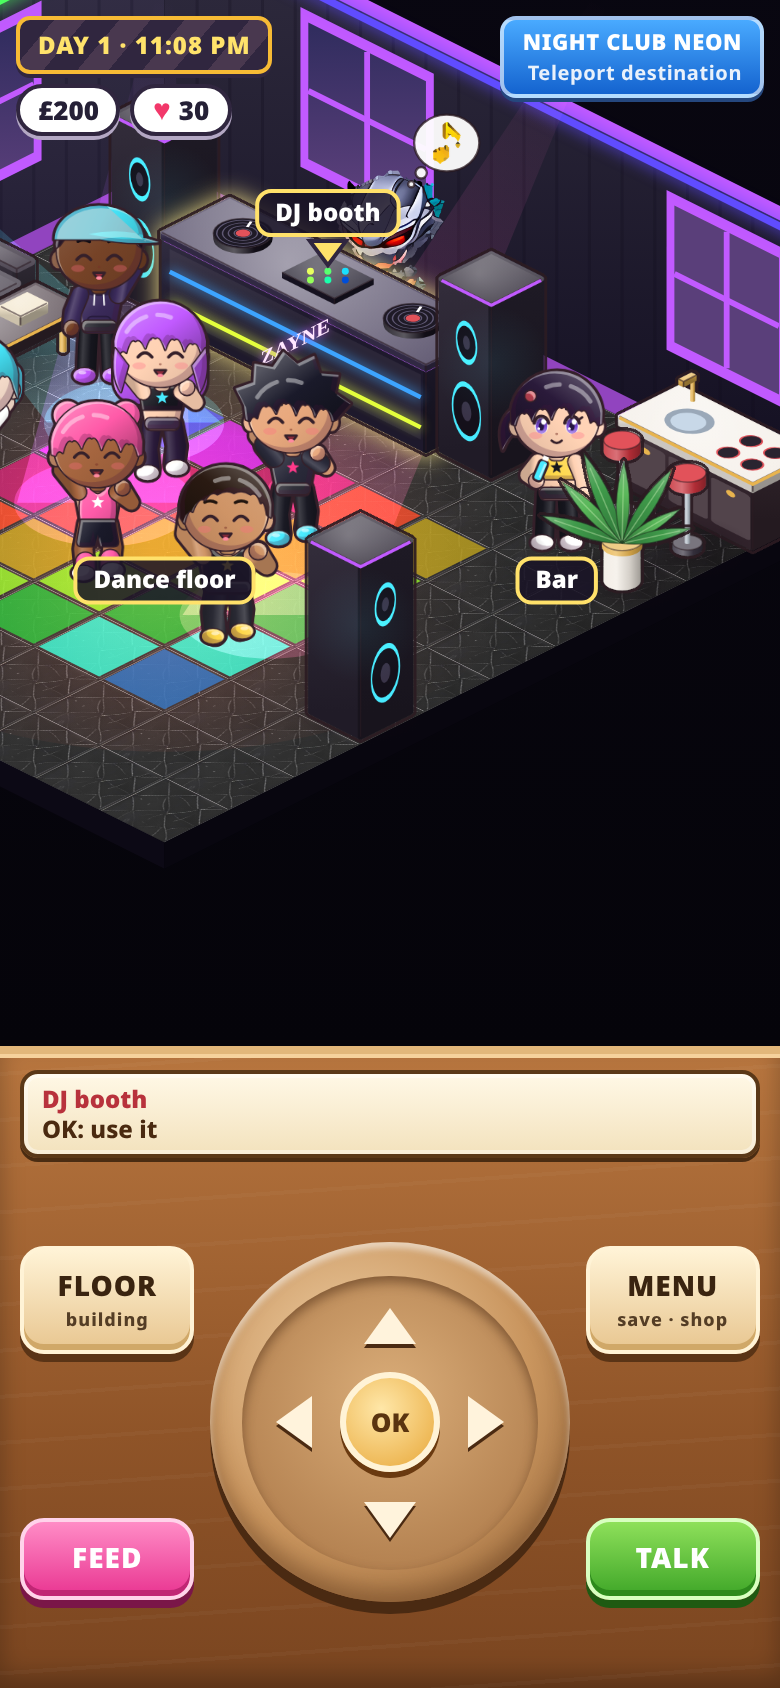
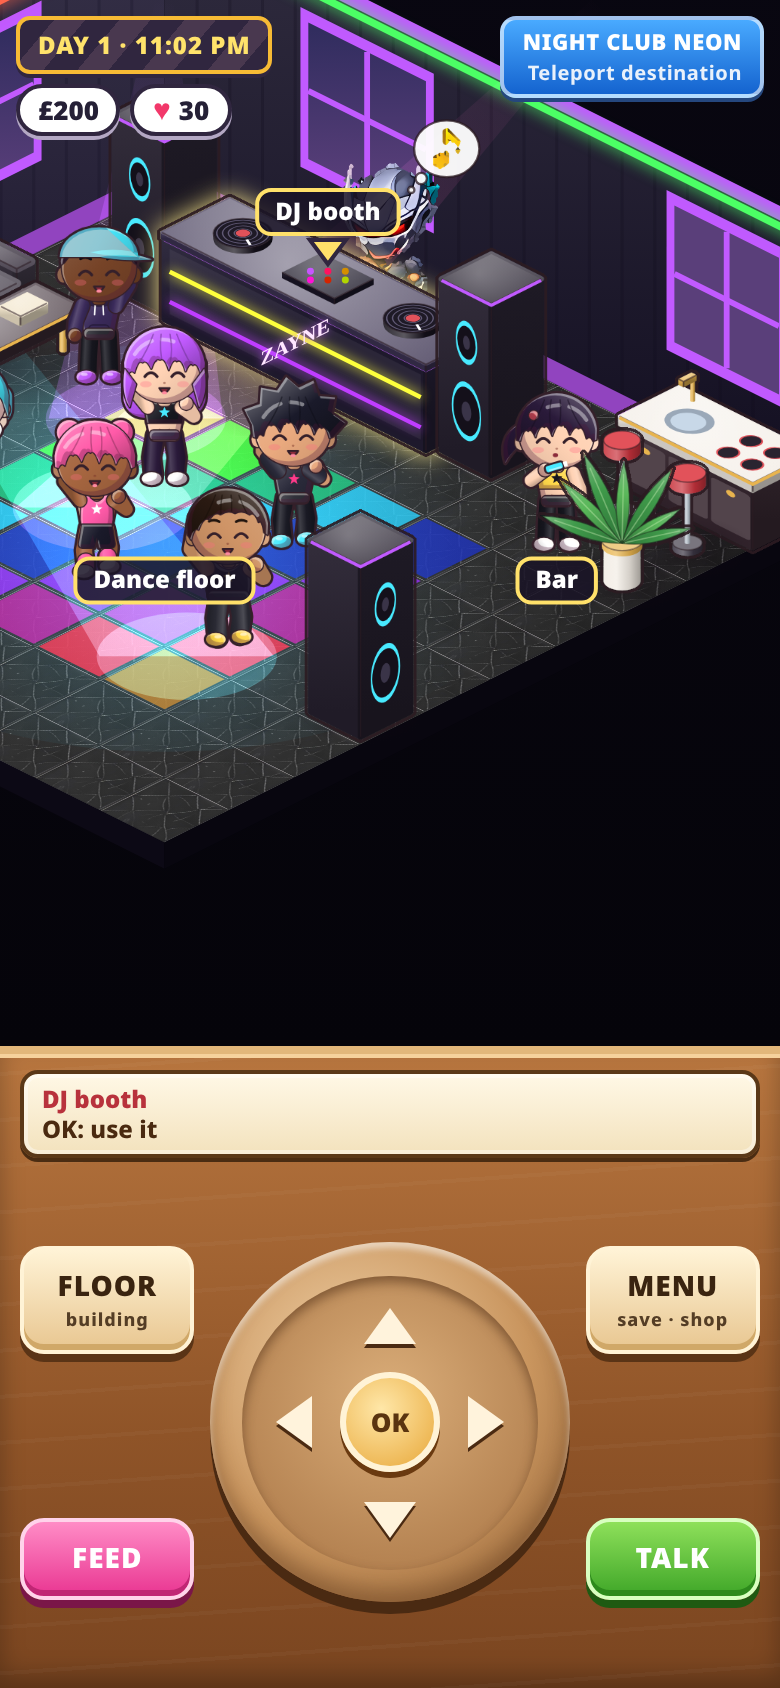
v0.3.0: bed blanket layer, NPC strands/shading, fshop connectivity, screenshots, README

diff --git a/npc.js b/npc.js
@@ -17,7 +17,7 @@ function grad(c,col,x0,y0,x1,y1,k=.2){const g=c.createLinearGradient(x0,y0,x1,y1
 function paint(c,fn,col,o={}){const [x0,y0,x1,y1]=o.box||[-30,-120,30,0];
  c.beginPath();fn(c);if(o.line!==0){c.lineWidth=OW*(o.lw||1)*1.5;c.strokeStyle=OL;c.lineJoin='round';c.stroke();}
  c.fillStyle=o.flat?col:grad(c,col,x0,y0,x1,y1,o.k||.18);c.fill();
- if(o.cel!==0){const [sx,sy]=o.cel||[-3.2,-2.6];c.save();c.beginPath();fn(c);c.clip();c.beginPath();c.rect(-300,-400,600,600);c.save();c.translate(sx,sy);fn(c);c.restore();c.fillStyle=o.sc||'rgba(70,20,60,.24)';c.fill('evenodd');
+ if(o.cel!==0){const [sx,sy]=o.cel||[-3.2,-2.6];c.save();c.beginPath();fn(c);c.clip();c.beginPath();c.rect(-300,-400,600,600);c.save();c.translate(sx,sy);fn(c);c.restore();c.fillStyle=o.sc||'rgba(80,24,56,.3)';c.fill('evenodd');
   c.beginPath();c.rect(-300,-400,600,600);c.save();c.translate(1.4,1.6);fn(c);c.restore();c.fillStyle=o.rim||'rgba(255,250,240,.38)';c.fill('evenodd');c.restore();}}
 function limb(c,pts,w,col,pass,o={}){c.lineCap='round';c.lineJoin='round';c.beginPath();c.moveTo(...pts[0]);for(let i=1;i<pts.length;i++)c.lineTo(...pts[i]);
  if(pass==0){c.lineWidth=w+OW*3;c.strokeStyle=OL;c.stroke();return;}
@@ -147,7 +147,7 @@ function paintNpc(c,s,act,p,walk,back){const J=joints(s,walk?'walk':act,p,walk),
  if(back)H.back.forEach(h=>P(h.fn,s.hc,{box:[hx-20,hy-34,hx+20,hy+20],k:.24}));
  if(!back)D(c=>face(c,s,hx,hy,J.mood,((p*9+(s.seed||0))%5)<.22&&J.mood!='grit',J.turn));
  H.front.forEach(h=>P(h.fn,h.o.tie?(s.band||'#e2525a'):h.o.dim?tn(s.hc,-.1):s.hc,{box:[hx-16,hy-34,hx+16,hy+10],k:h.o.k||.26,rim:'rgba(255,255,255,.4)'}));
- if(!back&&H.front.length)D(c=>{c.save();c.beginPath();H.front.forEach(h=>h.fn(c));c.clip();c.strokeStyle='rgba(255,255,255,.42)';c.lineWidth=3;c.lineCap='round';c.beginPath();c.arc(hx-2,hy+2,R-4,Math.PI*1.18,Math.PI*1.4);c.stroke();c.beginPath();c.arc(hx-2,hy+2,R-4,Math.PI*1.5,Math.PI*1.62);c.stroke();c.restore();});
+ if(!back&&H.front.length)D(c=>{c.save();c.beginPath();H.front.forEach(h=>h.fn(c));c.clip();c.strokeStyle='rgba(255,255,255,.42)';c.lineWidth=3;c.lineCap='round';c.beginPath();c.arc(hx-2,hy+2,R-4,Math.PI*1.18,Math.PI*1.4);c.stroke();c.beginPath();c.arc(hx-2,hy+2,R-4,Math.PI*1.5,Math.PI*1.62);c.stroke();c.strokeStyle=tn(s.hc,-.45);c.globalAlpha=.55;c.lineWidth=1;[[-.5,-.2],[-.15,.1],[.25,-.1],[.55,.15]].forEach(([a,b])=>{c.beginPath();c.moveTo(hx+a*R*.6,hy-R+2);c.quadraticCurveTo(hx+a*R*.9,hy-R*.5,hx+(a+b)*R,hy-4);c.stroke();});c.restore();});
  if(s.band)P(c=>{c.moveTo(hx-R-1,hy-8);c.quadraticCurveTo(hx,hy-17,hx+R+1,hy-8);c.lineTo(hx+R+1,hy-3);c.quadraticCurveTo(hx,hy-12,hx-R-1,hy-3);c.closePath();},s.band,{box:[hx-R,hy-15,hx+R,hy-3],cel:0});
  if(s.cap)P(c=>{c.ellipse(hx,hy-8,R+1.5,R-6,0,Math.PI,Math.PI*2);c.closePath();if(!back){c.moveTo(hx-4,hy-9);c.quadraticCurveTo(hx+20,hy-14,hx+R+12,hy-6);c.quadraticCurveTo(hx+18,hy-4,hx-4,hy-9);}},s.cap,{box:[hx-R,hy-30,hx+R,hy-4]});
  if(s.earbuds&&!back)D(c=>{[-1,1].forEach(d=>{c.fillStyle='#fff';c.beginPath();c.arc(hx+d*(R-1),hy+7,2.4,0,7);c.fill();c.strokeStyle=OL;c.lineWidth=1;c.stroke();});});

diff --git a/world.js b/world.js
@@ -10,7 +10,7 @@
 // Footprints come from the painted piece models in furnart.js. use.at = where the tenant sits/lies on the piece in the
 // piece's local model space [x across, y depth (front = y max), z height px]; the painter's own projection maps it for each of 4 facings.
 // r (0..3): 0 front faces +v (down-left), 1 faces +u (down-right), 2 faces -v (to the back wall), 3 faces -u.
-const USE={bed:{act:'sleep',pose:'sleep',at:[1,1.0,33],ly:.6},bed_grey:{act:'sleep',pose:'sleep',at:[1,1.0,33],ly:.6},
+const USE={bed:{act:'sleep',pose:'sleep',at:[1,1.0,33],ly:.9},bed_grey:{act:'sleep',pose:'sleep',at:[1,1.0,33],ly:.9},
  sofa_red:{act:'sit',pose:'sit',at:[1,.62,29]},sofa_cream:{act:'sit',pose:'sit',at:[1,.62,29]},sofa_grey:{act:'sit',pose:'sit',at:[1,.62,29]},sofa_black:{act:'sit',pose:'sit',at:[1,.62,29]},
  armchair:{act:'sit',pose:'sit',at:[.5,.62,29]},chair_red:{act:'sit',pose:'sit',at:[.5,.52,33]},bench_blue:{act:'lift',pose:'sit',at:[1,.5,30]},
  tv:{act:'tv',pose:'tv'},fridge:{act:'fridge',pose:'fridge'},fridge2:{act:'fridge',pose:'fridge'},counter:{act:'cook',pose:'eat'},table_dining:{act:'eat',pose:'eat'},table_coffee:{act:'eat',pose:'eat'},
@@ -78,7 +78,7 @@ function usePoint(G,f){const d=FDEF[f.k],U=d&&d.use;if(!U)return null;const [w,h
  const z=G.zone[f.u]&&G.zone[f.u][f.v],behind=([u,v])=>r==0?v<f.v:r==1?u<f.u:r==2?v>=f.v+h:u>=f.u+w;
  const cand=[...front,...side.filter(p=>!front.some(q=>q[0]==p[0]&&q[1]==p[1])&&!behind(p))].filter(([u,v])=>G.free(u,v)&&G.zone[u][v]==z);
  let draw=[b.cx,b.by],depth=b.depth+.05,gp=null;
- if(U.at){const [gu,gv]=locToGrid(f.k,r,U.at[0],U.at[1]),q=G.pt(f.u+gu,f.v+gv),KZ=G.eu[0]/45;draw=[q[0],q[1]-U.at[2]*KZ];gp=U.ly!=null?locToGrid(f.k,r,U.at[0],U.ly):[gu,gv];
+ if(U.at){const [gu,gv]=locToGrid(f.k,r,U.at[0],U.at[1]),q=G.pt(f.u+gu,f.v+gv),KZ=G.eu[0]/45;draw=[q[0],q[1]-U.at[2]*KZ];gp=U.ly!=null?[...locToGrid(f.k,r,U.at[0],U.ly),r==1?0:1]:[gu,gv];
   // facing the camera (r 0/1): the tenant is drawn over the piece, then the piece's front layer (arms, blanket) over the tenant
   depth=r<2?b.depth+.05:b.depth-.05;}
  // lying axis on screen (head direction), for beds

diff --git a/data.js b/data.js
@@ -228,7 +228,7 @@ park:{n:'City Park',outdoor:1,sign:'CITY PARK',entry:EXIT,
  props:[F('palm',0,0),F('statue_white',2,1),F('plant_big',9,0),F('bench_blue',3,6),F('bench_blue',6,7),F('roses',0,5,1),F('roses',9,5),F('lamp_warm',6,4),F('plant',0,7,1),F('palm',9,8)],
  hot:[{id:'exit',n:'Exit',kind:'exit'},{id:'stroll',n:'Pond path',t:[5,3],kind:'stroll'}]},
 fshop:{n:'Furniture Shop',wall:['#f2efe8','#e4dfd4'],trim:'#c9a35a',tex:'t20',sign:'LUMEN FURNITURE',entry:EXIT,
- props:[F('armor',0,1,1),F('sofa_red',0,3,1),F('fridge2',2,0),F('bed',4,0),F('bookcase_red',7,0),F('tv',0,5,1),F('treadmill',6,5),F('sofa_cream',3,6),F('plant_big',9,1),F('desk',8,2)],
+ props:[F('armor',0,1,1),F('sofa_red',0,3,1),F('fridge2',2,0),F('bed',4,0),F('bookcase_red',7,0),F('tv',0,5,1),F('treadmill',6,5),F('sofa_cream',3,6),F('plant_big',9,0),F('desk',8,2)],
  hot:[{id:'exit',n:'Exit',kind:'exit'},{id:'shop',n:'Shop counter',t:[4,4],kind:'shop'}]},
 club:{n:'Night Club Neon',wall:['#1c1630','#151026'],trim:'#c15aff',tex:'t32',sign:'CLUB NEON',neon:1,entry:EXIT,dance:[3,3,5,5],
  props:[F('djbooth',2,1),F('speaker',1,1),F('speaker',6,1),F('counter',8,0),F('barstool',8,1),F('barstool',9,1),F('sofa_black',0,3,1),F('table_coffee',1,3,1),F('armchair',0,6,1),F('plant_palm',9,2),F('speaker',9,6,1)],

diff --git a/furnart.js b/furnart.js
@@ -152,7 +152,7 @@ const cache=new Map();
 function render(k,r,eu,layer){const def=DEF[k];if(!def)return null;const key=k+'|'+r+'|'+eu[0]+'|'+(layer?layer.map(v=>v.toFixed(2)).join(','):'');if(cache.has(key))return cache.get(key);
  const ctx=mk(def,r,eu);def.paint(ctx);
  // front layer: only the parts in front of a tenant sitting/lying at grid point layer=[u,v] (arms, blanket)
- if(layer){const [lu,lv]=layer;const keep=ctx.items.filter(it=>it.bb&&(it.bb[0]>=lu-.001||it.bb[1]>=lv+.2));ctx.items.length=0;ctx.items.push(...keep);}
+ if(layer){const [lu,lv,ax]=layer;const keep=ctx.items.filter(it=>it.bb&&(ax!=null?it.bb[ax]>=(ax?lv:lu)-.001:(it.bb[0]>=lu-.001||it.bb[1]>=lv+.2)));ctx.items.length=0;ctx.items.push(...keep);}
  // bounds from the footprint and height
  const [W,D]=def.fp,gw=r%2?D:W,gh=r%2?W:D,pts=[[0,0],[gw,0],[gw,gh],[0,gh]].map(([a,b])=>[a*eu[0]-b*eu[0],a*eu[1]+b*eu[1]]);
  const pad=34,x0=Math.min(...pts.map(p=>p[0]))-pad,x1=Math.max(...pts.map(p=>p[0]))+pad,y0=Math.min(...pts.map(p=>p[1]))-(def.h+20)*ctx.KZ-pad,y1=Math.max(...pts.map(p=>p[1]))+pad;

diff --git a/README.md b/README.md
@@ -17,3 +17,15 @@ You start in the lobby. **FLOOR** opens the building-front floor picker, and the
 - Ophion's and Batzz's source CG panels crop their wings and tail at the edges.
 - Room pathing uses hand-placed waypoints, so it is approximate.
 - There is no player avatar, to avoid inventing a character; a cursor is used instead. The ring is a canvas drawing.
+
+## v0.3.0 — one art style
+- **Furniture** (`furnart.js`): every piece is painted procedurally in the chibi-sprite style (soft cel shading, rounded
+  cushiony corners, a dark sticker outline) from a small 3D-ish model, so all **4 facings** are drawn properly (ROTATE
+  cycles them). Pieces have front layers (sofa arms, blanket) drawn over a seated/sleeping tenant.
+- **NPCs** (`npc.js`): gym-goers and clubbers are painted chibis at tenant scale (big glossy eyes, gradient + cel shadow
+  + rim light, dark outline), each with its own design and looping activity animation (run, squat, curl, punch, yoga,
+  pull-up, drink, dance, cheer), plus walk cycles and back views.
+- **Tenant poses** (sheet sprites only, no edits): sit (sofa/chair/desk, back view on away-facing seats), sleep (lying
+  under the blanket), squat with barbell, treadmill run, punch, eat (favourite food), fridge (door opens, then a snack),
+  TV, exercise ball, DJ, coach, dance. Idle cycles through the sheet's emote and side poses.
+- **Dialogue**: Ares uses his sheet's 8 full-body poses, picked by each line's mood; all tenants use their 8 expressions.
